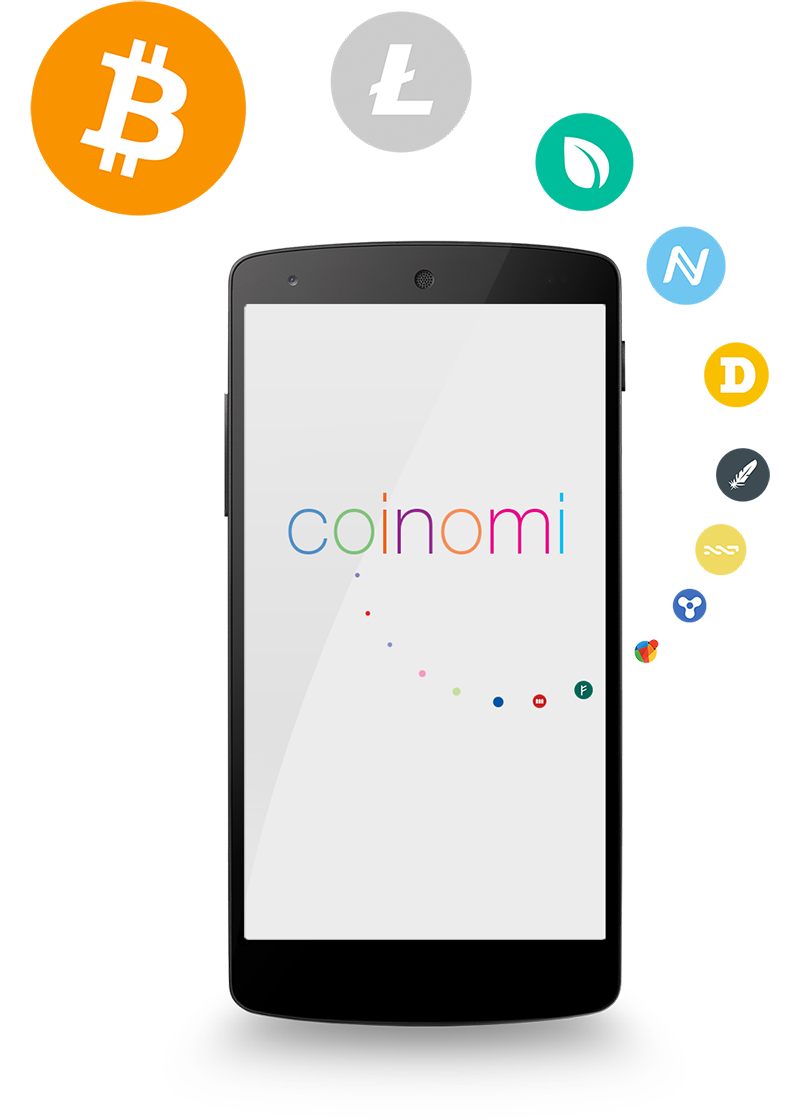
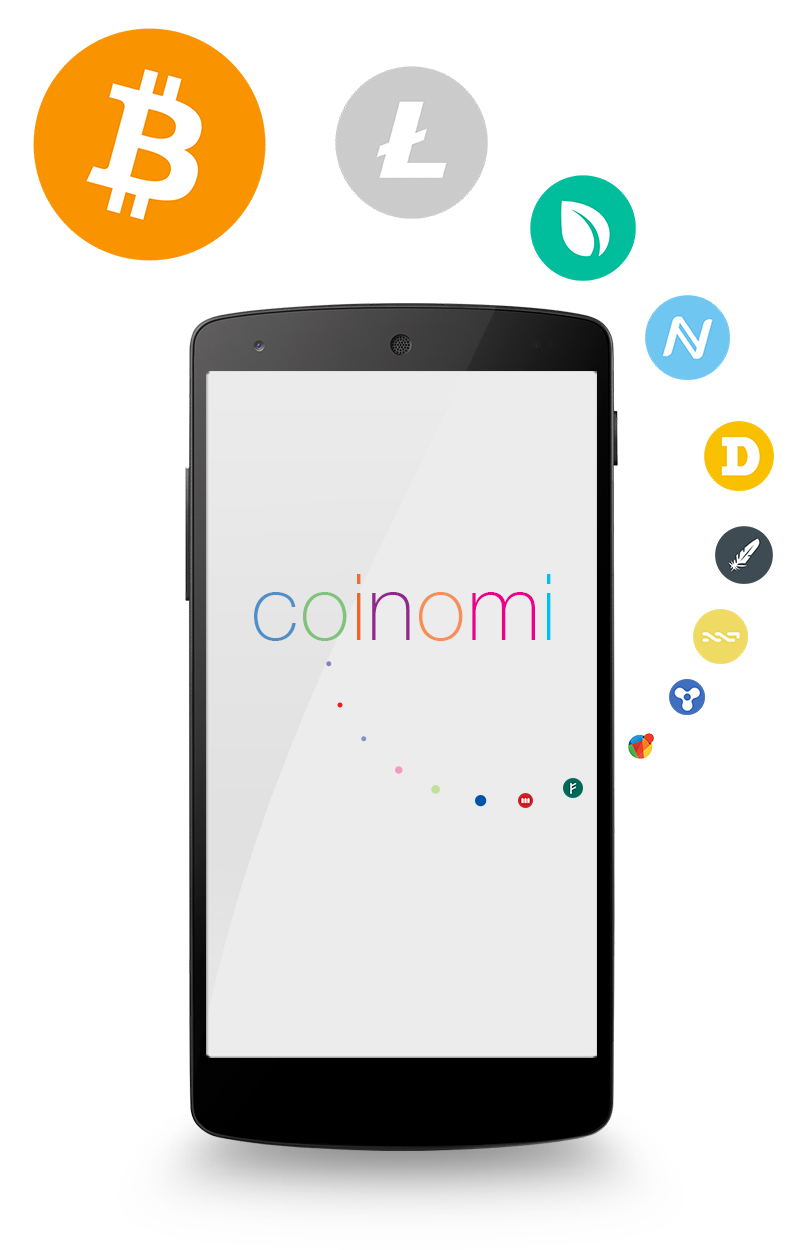
updates

Changed region(s): [[0.2188, 0.0, 0.9688, 0.9375], [0.0312, 0.0, 0.3438, 0.2188]]

diff --git a/index.html b/index.html
@@ -1,56 +1,110 @@
----
-layout: default
----
+<!DOCTYPE html>
+<html>
 
-<div class="container">
+  <head>
+  <meta charset="utf-8">
+  <meta http-equiv="X-UA-Compatible" content="IE=edge">
+  <title>Coinomi</title>
+  <meta name="viewport" content="width=device-width, initial-scale=1">
+  <meta name="description" content="Next generation cryptocurrency bank">
+  <link rel="canonical" href="http://www.coinomi.comhttp://www.coinomi.com/">
+
+  <meta property="og:image" content="http://www.coinomi.com/img/network-poster.png" />
+  <meta property="og:title" content="Coinomi" />
+  <meta property="og:description" content="Coinomi is a free service that lets you simplify your economy affairs, manage your digital cash, send money to any person and any coin around the world with low fees. Never lose your money again!" />
+
+  <!-- Bootstrap -->
+  <link rel="stylesheet" href="//netdna.bootstrapcdn.com/bootstrap/3.1.1/css/bootstrap.min.css">
+
+  <!-- Custom CSS -->
+  <!--<link rel="stylesheet" href="http://www.coinomi.com/css/main.css">-->
+  <link rel="stylesheet" href="css/main.css">
 
 
-  <div class="starter-template">
+  <link rel="shortcut icon" href="favicon.ico">
+
+
+  <!-- HTML5 shim and Respond.js IE8 support of HTML5 elements and media queries -->
+  <!--[if lt IE 9]>
+  <script src="https://oss.maxcdn.com/libs/html5shiv/3.7.0/html5shiv.js"></script>
+  <script src="https://oss.maxcdn.com/libs/respond.js/1.4.2/respond.min.js"></script>
+  <![endif]-->
+</head>
+
+
+
+
+
+
+
+    <body>
+
+    
+
+
+    <div class="container">
+
+
+  <div class="header">
     <h1>Imagine one wallet</h1>
+
     <p class="lead">that holds millions of coins</p>
   </div>
 
-  <img class="center-block" src="img/coinomi.png" alt="Coinomi" width="400" height="560"/>
+  <img class="center-block logo" src="img/coinomi.png" alt="Coinomi" width="400" height="625"/>
 
-    <!--<div class="row">-->
-      <!--<div class="col-md-4">-->
+  <!--<div class="row">-->
+  <!--<div class="col-md-4">-->
 
-      <!--</div>-->
-      <!--<div class="col-md-8">-->
-      <!--</div>-->
-    <!--</div>-->
+  <!--</div>-->
+  <!--<div class="col-md-8">-->
+  <!--</div>-->
+  <!--</div>-->
 
 
   <div class="row features">
     <div class="col-md-10 col-md-offset-1">
+
       <div class="row">
-        <div class="col-md-4 feature">
-          <h2>One to rule them all</h2>
-          <p>Hold all the coins of the world in your palm. Connecting you with all the people on the planet earth and beyond. Imagining the economy 2.0</p>
+        <div class="col-sm-4 feature">
+          <span class="glyphicon glyphicon-globe cnm-color1"></span>
+
+          <h2>Access all coins</h2>
+
+          <p>Now you have the ability to control all your coins through one app. Effortless connection with any apart of the world, simply imagine Economy 2.0. No more confusion and hustle!</p>
         </div>
-        <div class="col-md-4 feature">
-          <h2>Bank grade tech</h2>
-          <p>We hold our money in this destributed bank too, so the incentive for high security is top priority. You are in total control and your private keys stay private. Even from us.</p>
+        <div class="col-sm-4 feature">
+          <span class="glyphicon glyphicon-lock cnm-color2"></span>
+
+          <h2>Top Security</h2>
+
+          <p>Using bank grade technology and having as our incentive high security, we assure that your money is safe by ensuring your private keys never leave your device and that you have ultimate control over them!</p>
         </div>
-        <div class="col-md-4 feature">
-          <h2>Convenient backup</h2>
-          <p>So how many wallet.dat you have? Yes, we know. So let’s fix this, let’s put all the coins that exist in one HD wallet. Now we only need to write 12 words on a paper and never loose a coin again.</p>
+        <div class="col-sm-4 feature">
+          <span class="glyphicon glyphicon-saved cnm-color3"></span>
+
+          <h2>Convenient Backup</h2>
+
+          <p>All your coins are gathered in one Hierarchical Deterministic Wallet, so instead of having one wallet for every coin you have one master key for all your coins. Never lose access again!</p>
         </div>
       </div>
+
     </div>
   </div>
 
+  <hr>
 
-  <div class="row features">
+  <div class="row leave-space-down call-to-action">
     <div class="col-md-6 col-md-offset-3">
-      <h1>Get your testnet ready!</h1>
-      <p class="lead">Before going to the moon.</p>
+      <h1>Get your test coins ready!</h1>
+
+      <p class="lead">Try the wallet before it is released.</p>
     </div>
   </div>
 
-  <div class="row leave-space-down">
+  <div class="row feature leave-space-down">
     <div class="col-md-6 col-md-offset-3">
-      <p>We will get in touch with you when we are ready. Glad to hear back from you, ideas, questions, advices or just for a hi. We aim to be trasparent and gain the trust of the community. All our services are run by open source software that we develop and use with love.</p>
+      <span class="center-block glyphicon glyphicon-heart cnm-color4"></span>
     </div>
   </div>
 
@@ -59,6 +113,7 @@ layout: default
 
       <div class="form-group">
         <label for="name" class="col-sm-2 control-label">Name</label>
+
         <div class="col-sm-10">
           <input name="entry.388054488" type="text" class="form-control" id="name" placeholder="Give us optionally your name">
         </div>
@@ -66,6 +121,7 @@ layout: default
 
       <div class="form-group">
         <label for="email" class="col-sm-2 control-label">Email <span style="color: red">*</span></label>
+
         <div class="col-sm-10">
           <input name="entry.1427653680" type="email" class="form-control" id="email" placeholder="you@example.com">
         </div>
@@ -73,6 +129,7 @@ layout: default
 
       <div class="form-group">
         <label for="email" class="col-sm-2 control-label">Message</label>
+
         <div class="col-sm-10">
           <textarea name="entry.1089090964" class="form-control" id="text" rows="3" placeholder="Always glad to hear from you"></textarea>
         </div>
@@ -81,10 +138,46 @@ layout: default
 
       <div class="form-group">
         <div class="col-sm-offset-2 col-sm-10">
-          <button type="submit" class="btn btn-default">Say hi</button>
+          <button type="submit" class="btn btn-primary">Say hi</button>
         </div>
       </div>
     </form>
   </div>
 
+  <div class="row leave-space-up leave-space-down">
+    <div class="col-md-6 col-md-offset-3">
+      <p>If you want to be one of the first ones to try out coinomi, please leave us your details and we will get back to you as soon as we are ready!</p>
+
+      <p>Our aim is to gain your trust and be transparent, that is why all our services run by open source software that we developed and use with love! So, share with us any ideas, questions, advices you might have or simply say hi.</p>
+    </div>
+  </div>
+
 </div>
+
+
+    <hr>
+<img class="center-block logo"
+     src="img/network-poster.png"
+     alt="A network of digital coins connected to each other."
+     width="319" height="505"/>
+
+<div class="footer">
+  <p>coinomi 2014</p>
+  <p>icons by
+    <a href="https://github.com/shphrd/crypto-icons">Chris Shepherd</a>
+  </p>
+</div>
+
+    <script>
+      (function(i,s,o,g,r,a,m){i['GoogleAnalyticsObject']=r;i[r]=i[r]||function(){
+        (i[r].q=i[r].q||[]).push(arguments)},i[r].l=1*new Date();a=s.createElement(o),
+          m=s.getElementsByTagName(o)[0];a.async=1;a.src=g;m.parentNode.insertBefore(a,m)
+      })(window,document,'script','//www.google-analytics.com/analytics.js','ga');
+
+      ga('create', 'UA-51412754-1', 'coinomi.com');
+      ga('send', 'pageview');
+
+    </script>
+
+    </body>
+</html>

diff --git a/css/main.less b/css/main.less
@@ -1,19 +1,42 @@
-.starter-template {
-  padding: 140px 15px;
+body {
+  color: #3e4b52;
+}
+
+.header {
+  padding: 50px 0;
   text-align: center;
+}
+
+@media (max-width: 400px) {
+  .logo {
+    width: 100%;
+    height: auto;
+  }
 }
 
 .features {
-  padding: 100px 0;
-  text-align: center;
+  padding: 60px 0;
 }
 
 .feature {
+  text-align: center;
   padding: 10px;
 }
 
+.feature .glyphicon {
+  font-size: 50px;
+}
+
 .leave-space-down {
-  padding: 0 0 40px 0;
+  padding-bottom: 20px;
+}
+
+.leave-space-up {
+  padding-top: 20px;
+}
+
+.call-to-action {
+  text-align: center;
 }
 
 
@@ -27,4 +50,24 @@
   text-align: center;
   background-color: #f9f9f9;
   border-top: 1px solid #e5e5e5;
+}
+
+
+
+// TODO put in separate file
+
+.cnm-color1 {
+  color: #03bd9c;
+}
+
+.cnm-color2 {
+  color: #ce2022;
+}
+
+.cnm-color3 {
+  color: #faa020;
+}
+
+.cnm-color4 {
+  color: #6fc6f1;
 }

diff --git a/_includes/head.html b/_includes/head.html
@@ -6,6 +6,10 @@
   <meta name="description" content="{{ site.description }}">
   <link rel="canonical" href="{{ page.url | replace:'index.html','' | prepend: site.baseurl | prepend: site.url }}">
 
+  <meta property="og:image" content="{{ '/img/network-poster.png' | prepend: site.baseurl }}" />
+  <meta property="og:title" content="Coinomi" />
+  <meta property="og:description" content="Coinomi is a free service that lets you simplify your economy affairs, manage your digital cash, send money to any person and any coin around the world with low fees. Never lose your money again!" />
+
   <!-- Bootstrap -->
   <link rel="stylesheet" href="//netdna.bootstrapcdn.com/bootstrap/3.1.1/css/bootstrap.min.css">
 

diff --git a/_includes/footer.html b/_includes/footer.html
@@ -1,3 +1,9 @@
+<hr>
+<img class="center-block logo"
+     src="img/network-poster.png"
+     alt="A network of digital coins connected to each other."
+     width="319" height="505"/>
+
 <div class="footer">
   <p>coinomi 2014</p>
   <p>icons by
